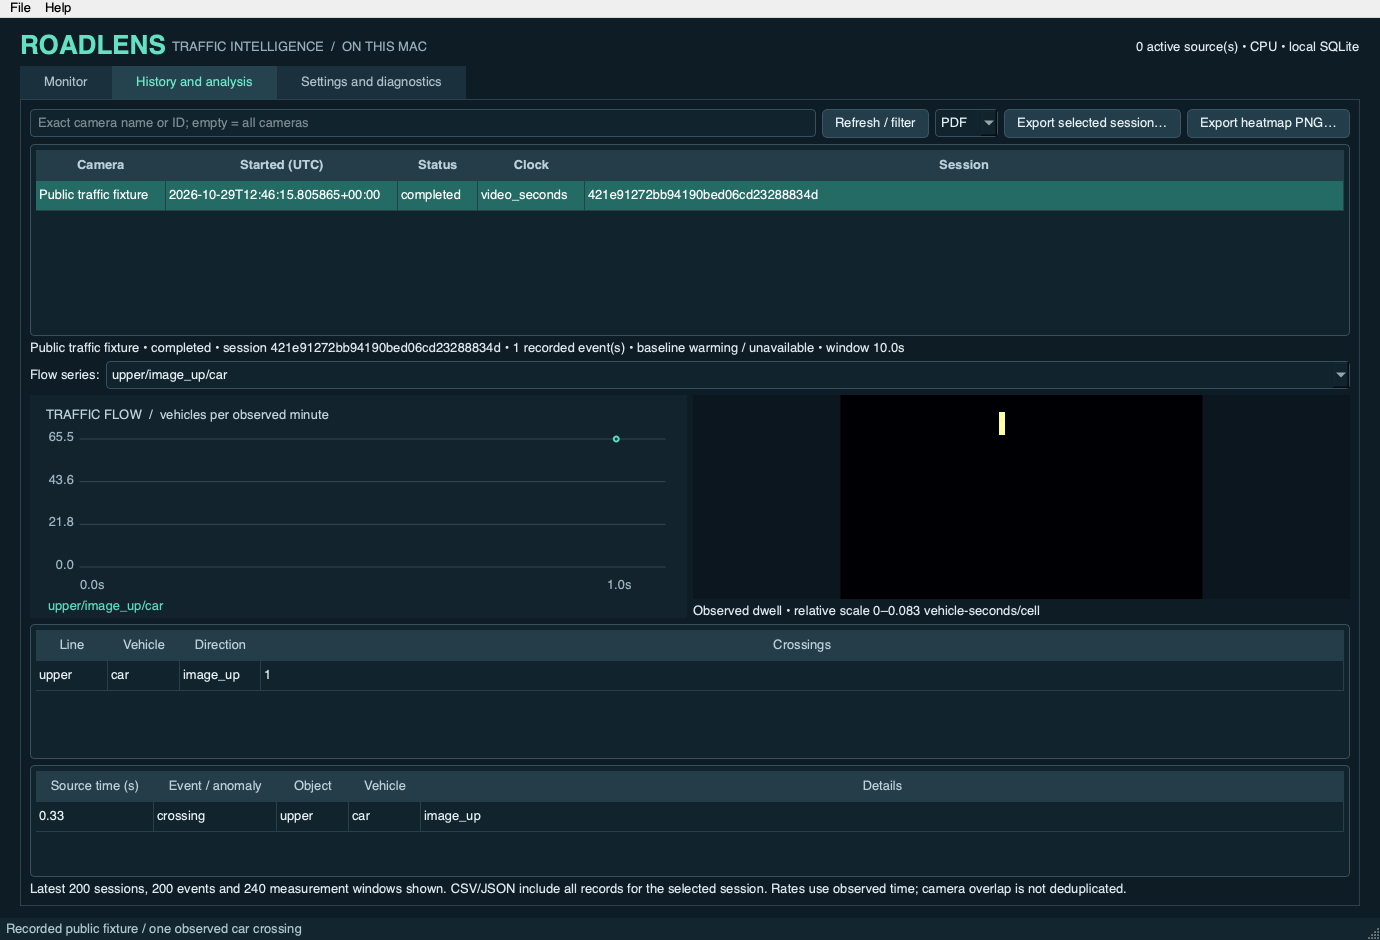
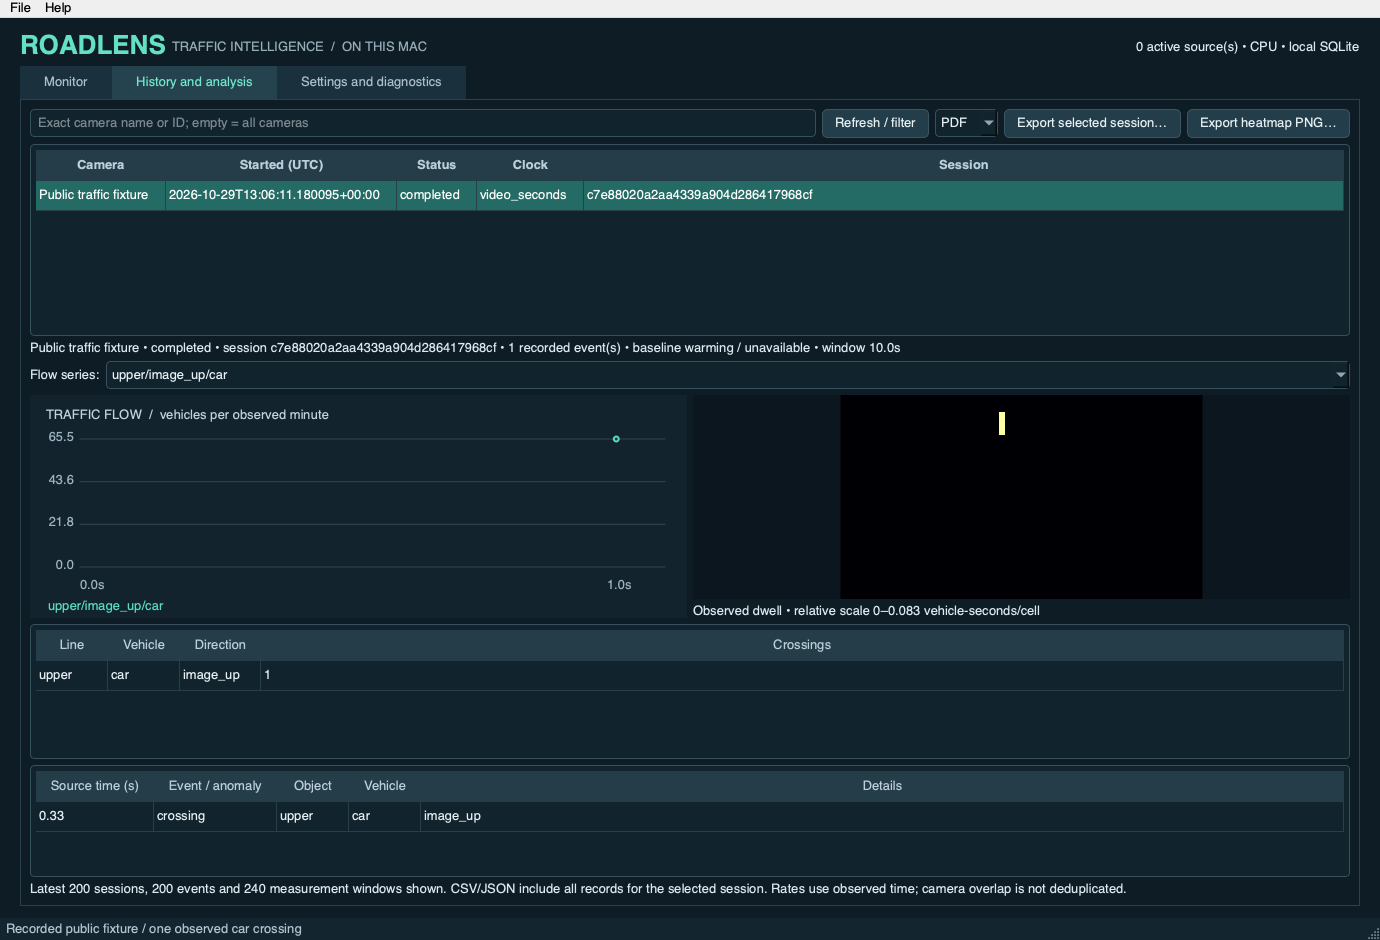
Preserve exact loaded scene and settings values until edited

diff --git a/src/roadlens/desktop.py b/src/roadlens/desktop.py
@@ -222,6 +222,7 @@ class DesktopWindow(QMainWindow):
         self.report_data = None
         self.last_read_error = None
         self.last_diagnostic = 0.0
+        self.settings_changed = set()
         self.setWindowTitle("ROADLENS • Local traffic intelligence")
         self.resize(1380, 940)
         self.setMinimumSize(1040, 720)
@@ -468,6 +469,8 @@ class DesktopWindow(QMainWindow):
                 widget.setDecimals(decimals)
                 widget.setSingleStep(0.01 if decimals == 2 else 0.1)
             widget.setAccessibleName(label)
+            widget.valueChanged.connect(lambda _, key=key: self.settings_changed.add(key))
+            widget.lineEdit().textEdited.connect(lambda _, key=key: self.settings_changed.add(key))
             self.settings_fields[key] = widget
             form.addRow(label, widget)
         self.apply_button = QPushButton("Apply and save settings")
@@ -1053,12 +1056,19 @@ class DesktopWindow(QMainWindow):
     def populate_settings(self):
         self.model_edit.setText(self.config.model)
         self.database_edit.setText(self.config.analytics.database or "")
+        self.settings_changed.clear()
         for key, widget in self.settings_fields.items():
-            widget.setValue(
+            configured = (
                 getattr(self.config, key)
                 if hasattr(self.config, key)
                 else getattr(self.config.analytics, key)
             )
+            widget.setToolTip(
+                f"Exact configured value: {configured}; retained until this field is edited."
+            )
+            widget.blockSignals(True)
+            widget.setValue(max(widget.minimum(), min(widget.maximum(), configured)))
+            widget.blockSignals(False)
 
     def apply_settings(self):
         if self.any_active():
@@ -1068,12 +1078,12 @@ class DesktopWindow(QMainWindow):
             values = {
                 key: widget.value()
                 for key, widget in self.settings_fields.items()
-                if hasattr(self.config, key)
+                if hasattr(self.config, key) and key in self.settings_changed
             }
             analytics = {
                 key: widget.value()
                 for key, widget in self.settings_fields.items()
-                if not hasattr(self.config, key)
+                if not hasattr(self.config, key) and key in self.settings_changed
             }
             if not self.database_edit.text().strip():
                 raise ValueError("Choose a SQLite database path")
@@ -1089,6 +1099,7 @@ class DesktopWindow(QMainWindow):
                 self.data_dir / "desktop.json", replace(config, sources=tuple(self.sources))
             )
             self.config = config
+            self.populate_settings()
             cv2.setNumThreads(config.threads)
             self.history_session = None
             self.history_request += 1

diff --git a/src/roadlens/desktop_widgets.py b/src/roadlens/desktop_widgets.py
@@ -9,7 +9,6 @@ from PySide6.QtWidgets import (
     QComboBox,
     QDialog,
     QDialogButtonBox,
-    QDoubleSpinBox,
     QFileDialog,
     QFormLayout,
     QHBoxLayout,
@@ -192,11 +191,10 @@ class SceneEditor(QDialog):
         self.name = QLineEdit("Road zone")
         self.forward = QLineEdit("forward")
         self.reverse = QLineEdit("reverse")
-        self.hysteresis = QDoubleSpinBox()
-        self.hysteresis.setDecimals(3)
-        self.hysteresis.setRange(0.001, 0.05)
-        self.hysteresis.setSingleStep(0.001)
-        self.hysteresis.setValue(0.005)
+        self.hysteresis = QLineEdit("0.005")
+        self.hysteresis.setToolTip(
+            "Normalized perpendicular distance, greater than 0 and at most 0.05"
+        )
         for label, widget in (
             ("Kind", self.kind),
             ("ID", self.identifier),
@@ -269,7 +267,7 @@ class SceneEditor(QDialog):
             self.canvas.points = [item.start, item.end]
             self.forward.setText(item.forward)
             self.reverse.setText(item.reverse)
-            self.hysteresis.setValue(item.hysteresis)
+            self.hysteresis.setText(repr(item.hysteresis))
         else:
             self.canvas.points = list(item.polygon)
             self.name.setText(item.name)
@@ -293,7 +291,7 @@ class SceneEditor(QDialog):
                     *self.canvas.points,
                     self.forward.text(),
                     self.reverse.text(),
-                    self.hysteresis.value(),
+                    float(self.hysteresis.text()),
                 )
                 updated = (
                     self.scene if geometry in self.scene.lines else self.scene.with_line(geometry)

diff --git a/tests/test_ui_repairs.py b/tests/test_ui_repairs.py
@@ -180,3 +180,31 @@ def test_diagnostics_pause_while_selected_for_copying(window, qt_app):
     window.diagnostics.selectAll()
     window.update_diagnostics()
     assert window.diagnostics.textCursor().selectedText() == "Selected diagnostics stay readable"
+
+
+def test_scene_line_roundtrip_keeps_small_valid_hysteresis(qt_app):
+    from roadlens.traffic.scene import CountingLine
+
+    line = CountingLine("small-deadband", (0.1, 0.5), (0.9, 0.5), hysteresis=0.0001)
+    scene = Scene(lines=(line,))
+    editor = SceneEditor(scene, image())
+    editor.select_geometry(0)
+    assert editor.hysteresis.text() == repr(line.hysteresis)
+    editor.save()
+    assert editor.result() == QDialog.DialogCode.Accepted
+    assert editor.scene == scene
+    editor.close()
+
+
+def test_unrelated_settings_apply_preserves_precise_or_out_of_ui_range_config(window, tmp_path):
+    window.config = replace(window.config, confidence=0.354, inference_fps=60.0)
+    window.populate_settings()
+    window.database_edit.setText(str(tmp_path / "changed.sqlite3"))
+    window.apply_settings()
+    assert window.config.confidence == 0.354
+    assert window.config.inference_fps == 60.0
+    window.settings_fields["confidence"].setValue(0.36)
+    window.settings_fields["confidence"].setValue(0.35)
+    window.apply_settings()
+    assert window.config.confidence == 0.35 and window.config.inference_fps == 60.0
+    assert not window.test_errors

diff --git a/docs/AUDIT.md b/docs/AUDIT.md
@@ -27,6 +27,7 @@ The existing detection/tracking and traffic algorithms were retained.
 | Reading/copying diagnostics | Refreshing every 60 ms cleared selections and wasted redraws | Update once per second; pause while focused; preserve readable/copyable diagnostics |
 | Scrolling a live table | Periodic rebuilds reset the scroll position | Batch updates and restore scroll position |
 | Staged secret, sanitized working copy | Release scan read clean working bytes while the index still held different bytes | Reject index/working-copy drift; regression with a constructed fixture |
+| Select a very small valid line deadband, or apply unrelated settings | Numeric widgets could clamp/round loaded configuration and silently alter it | Exact text-based line deadbands; retain loaded settings until explicitly edited, with exact-value tooltips; precision regressions |
 
 ## Verified engine behavior retained
 

diff --git a/DESKTOP.md b/DESKTOP.md
@@ -64,7 +64,8 @@ desktop saves absolute paths when importing configuration through its menu.
   overwrite existing files. All exports run off the UI thread.
 - **Settings and diagnostics:** Model/database selection, negotiated camera
   resolution/FPS, inference cap, CPU threads, detector thresholds, retention,
-  traffic windows and queue/congestion settings. Stop all sources before Apply.
+  traffic windows and queue/congestion settings. Stop all sources before Apply. Loaded numeric values retain their exact precision
+  until that field is edited; tooltips show the exact configured value.
   Diagnostics show source state, resolved device ID, FPS, inference duration,
   frame age, capture drops, reconnects, processed frames, errors and local paths.
 

diff --git a/docs/RELEASE_STATUS.md b/docs/RELEASE_STATUS.md
@@ -5,7 +5,7 @@ Verified 2026-10-29 on Intel macOS, CPython 3.14.7. Repository:
 
 ## Local checks
 
-- **123 passed, 1 skipped** in the complete suite. Real ONNX/recorded-footage
+- **125 passed, 1 skipped** in the complete suite. Real ONNX/recorded-footage
   tests ran. The skipped test requires explicit access to a physical camera.
 - Lint, formatting and `pip check` pass. The original vision/tracking and
   traffic intelligence algorithms, database schema and existing tests remain.

diff --git a/VERIFICATION.md b/VERIFICATION.md
@@ -1,6 +1,6 @@
 # Current release verification
 
-The current source release passes **123 tests** with **one opt-in physical camera
+The current source release passes **125 tests** with **one opt-in physical camera
 test skipped**. See [release verification](docs/RELEASE_STATUS.md),
 [audit repairs](docs/AUDIT.md), and [model provenance](docs/MODEL_PROVENANCE.md).
 No new physical-camera or sustained thermal validation is claimed.
